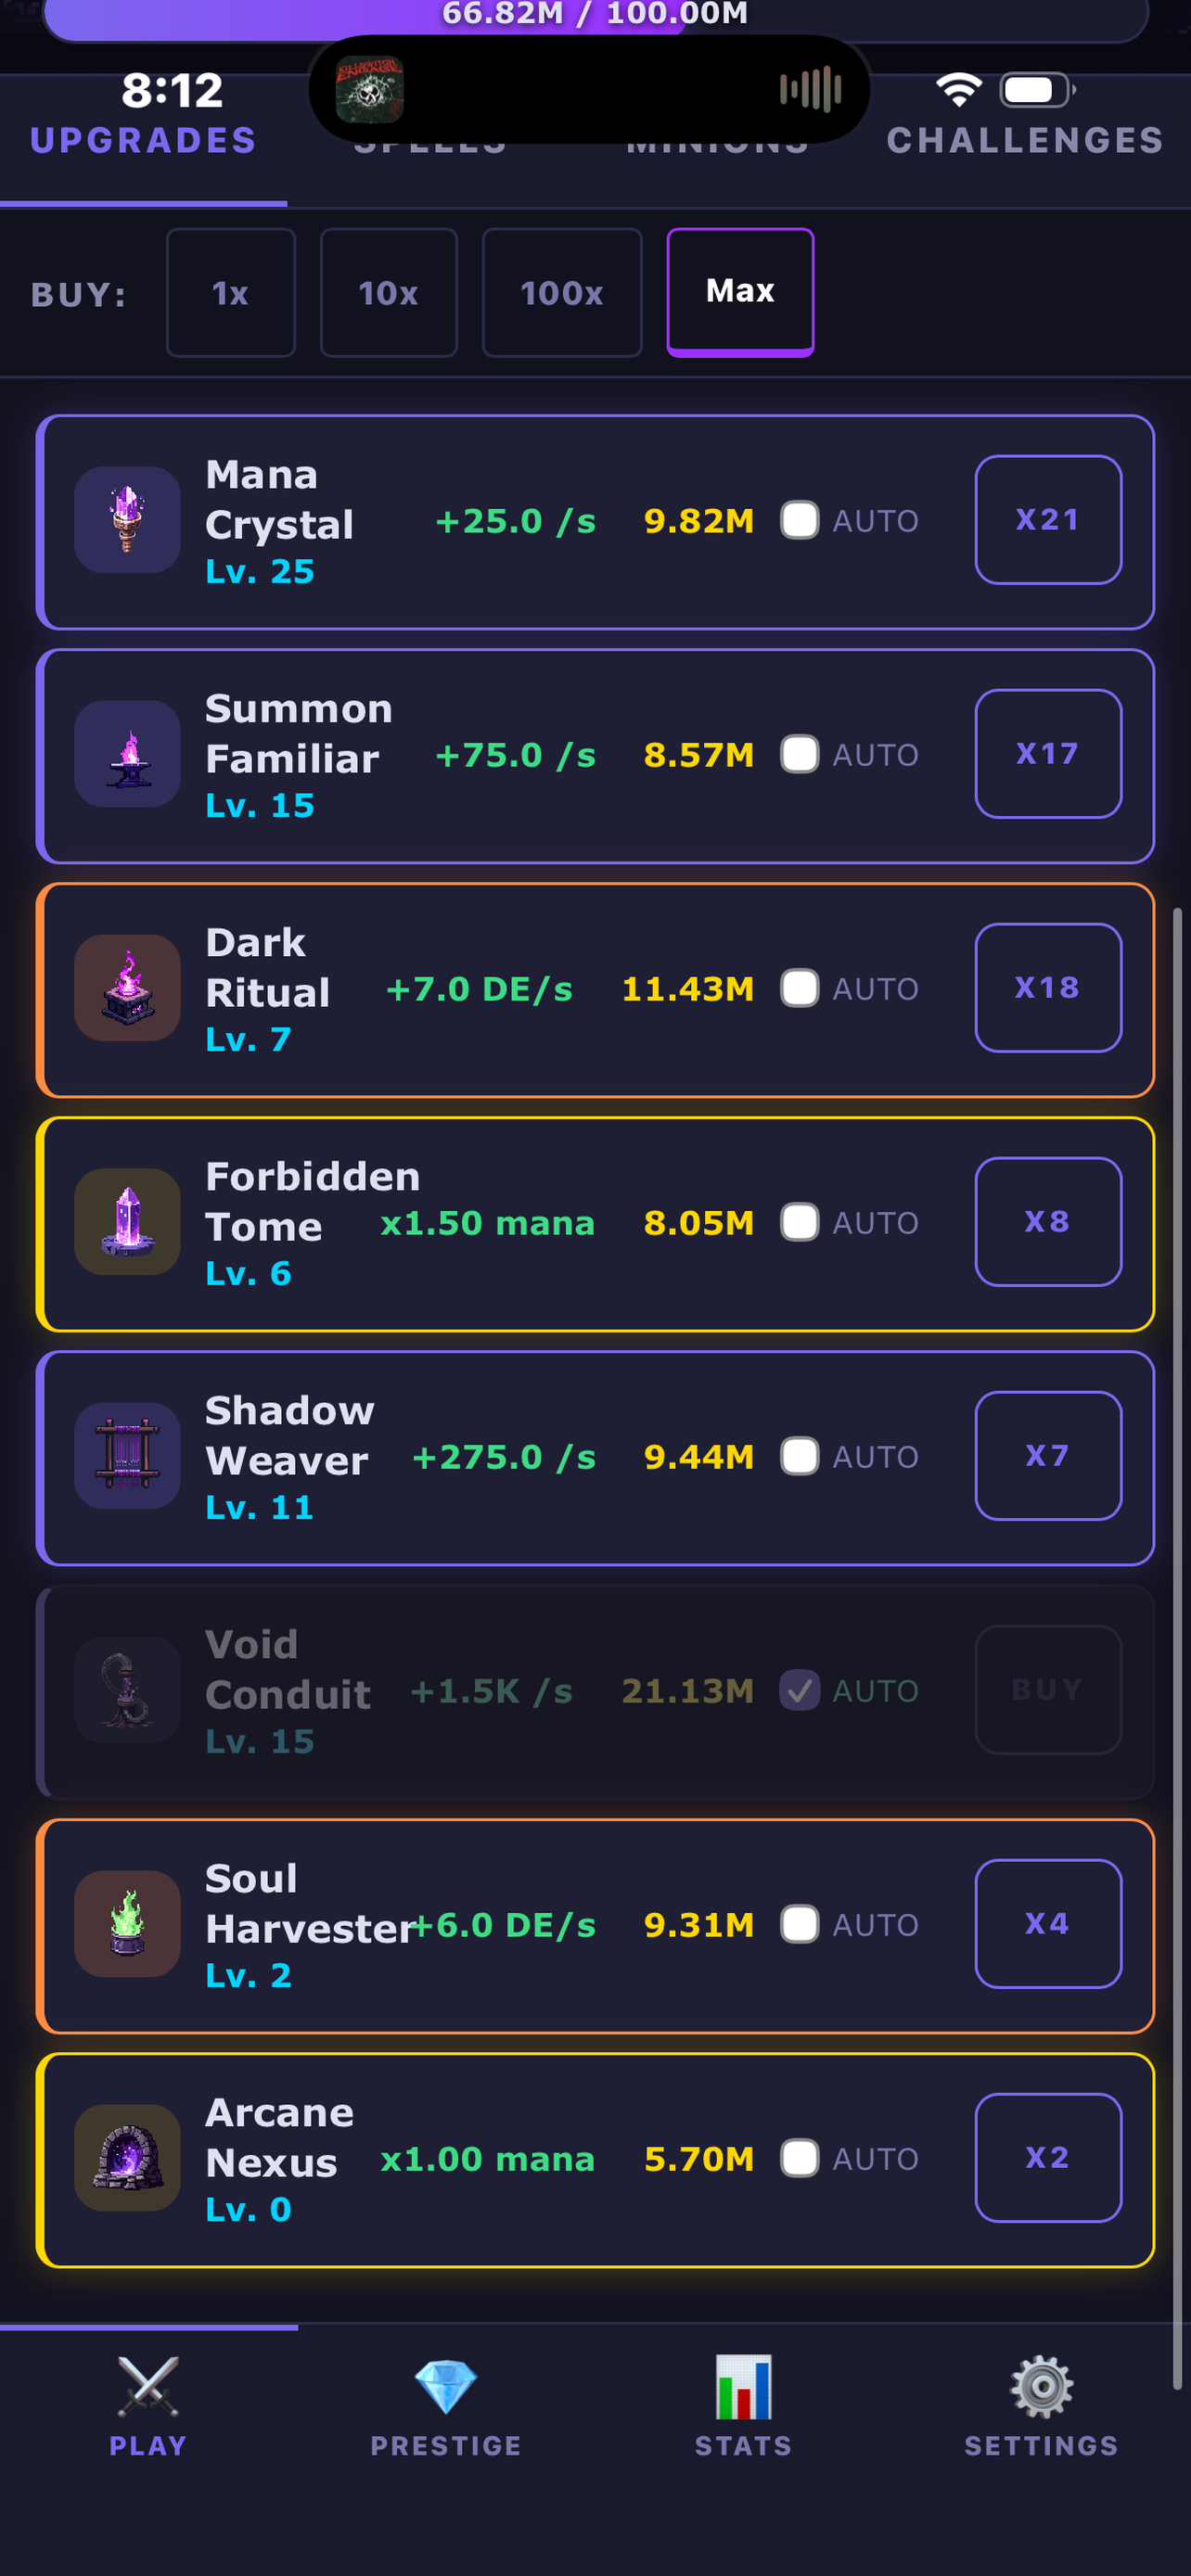
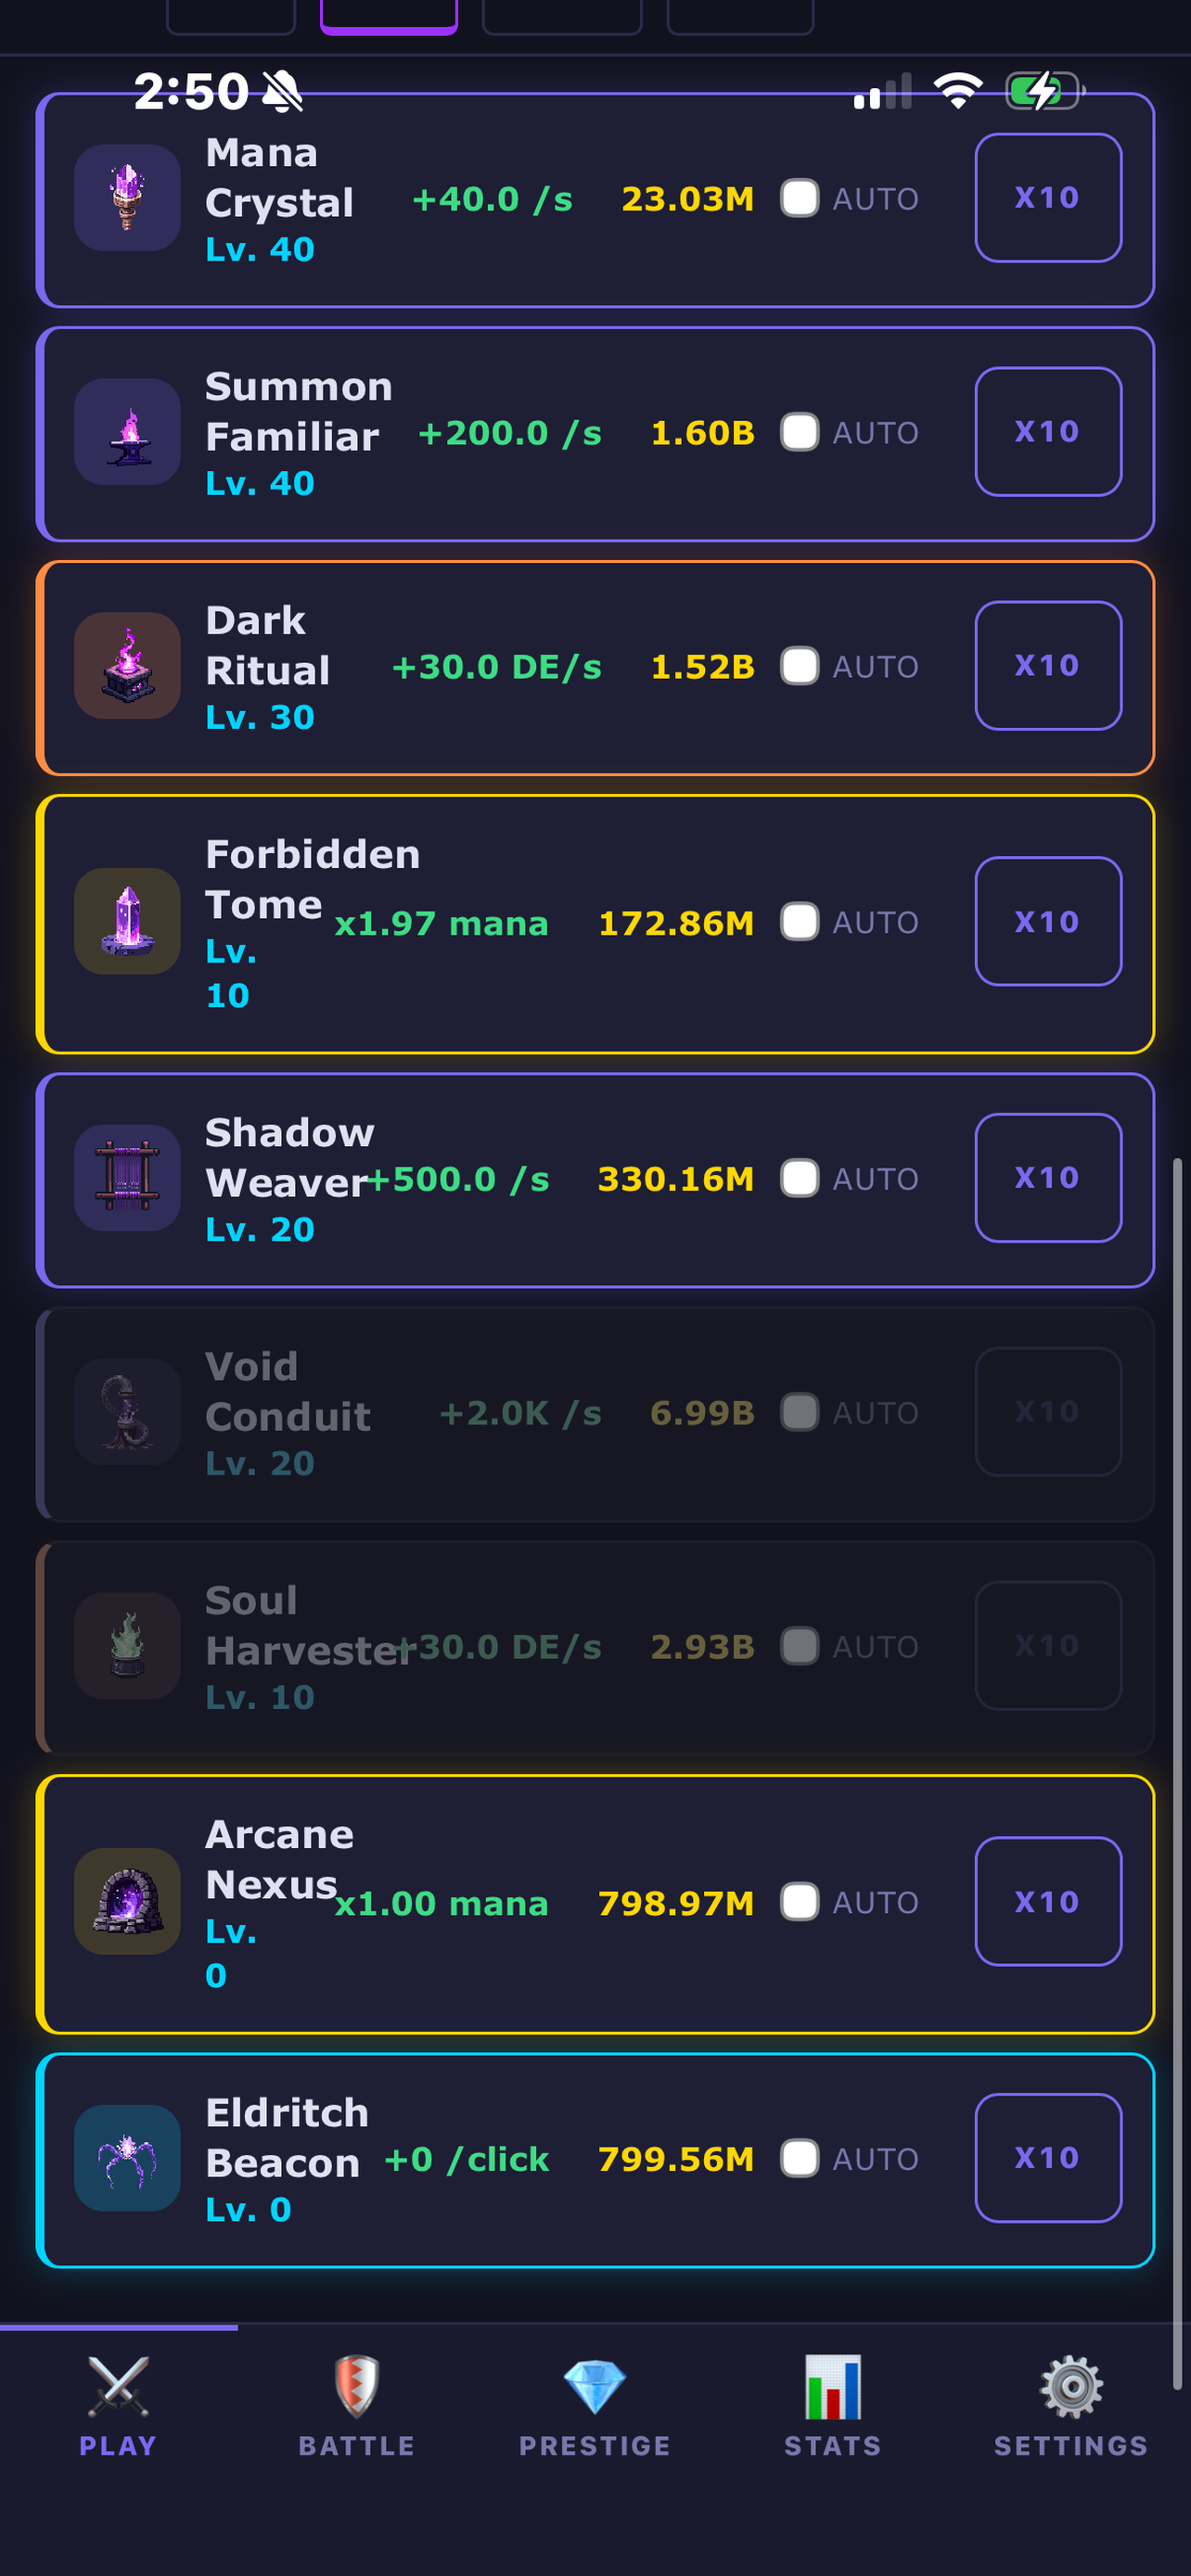
v1.9.2: Support page, updated screenshots, IAP review images
- Add support.html with bug reports, feature requests, purchase help, save data info
- Remove GitHub username links from index.html (FAQ, footer)
- Add Support link to nav and footer
- Update copyright to Dark Ascension Labs
- Replace 7 old screenshots with 11 new ones (all formats: 6.5", 6.7", iPad, itch.io)
- Add 24 IAP review screenshots for App Store Connect upload
- New screens: spells, minions, challenges, artifacts, bosses

diff --git a/support.html b/support.html
@@ -1,0 +1,199 @@
+<!DOCTYPE html>
+<html lang="en">
+<head>
+    <meta charset="UTF-8">
+    <meta name="viewport" content="width=device-width, initial-scale=1.0">
+    <title>Support — Dark Ascension</title>
+    <meta name="description" content="Get help with Dark Ascension. Report bugs, request features, or contact the developer.">
+    <meta name="theme-color" content="#0a0a12">
+    <link rel="stylesheet" href="css/style.css">
+    <style>
+        .support-hero {
+            padding: 140px 24px 60px;
+            text-align: center;
+            background: var(--bg-darkest);
+        }
+        .support-content {
+            max-width: 700px;
+            margin: 0 auto;
+            padding: 0 24px 100px;
+            background: var(--bg-darkest);
+        }
+        .support-section {
+            background: var(--bg-panel);
+            border: 1px solid var(--border-color);
+            border-radius: 14px;
+            padding: 32px 28px;
+            margin-bottom: 24px;
+        }
+        .support-section h3 {
+            font-size: 1.15rem;
+            margin-bottom: 12px;
+            color: var(--text-primary);
+        }
+        .support-section p,
+        .support-section li {
+            font-size: 0.95rem;
+            color: var(--text-secondary);
+            line-height: 1.7;
+        }
+        .support-section ul {
+            list-style: none;
+            padding: 0;
+        }
+        .support-section li {
+            padding: 6px 0;
+            padding-left: 20px;
+            position: relative;
+        }
+        .support-section li::before {
+            content: "\2022";
+            color: var(--accent-purple);
+            position: absolute;
+            left: 0;
+            font-weight: bold;
+        }
+        .support-email {
+            display: inline-flex;
+            align-items: center;
+            gap: 8px;
+            background: var(--bg-card);
+            border: 1px solid var(--accent-purple);
+            border-radius: 10px;
+            padding: 14px 24px;
+            margin-top: 12px;
+            font-size: 1rem;
+            font-weight: 600;
+            color: var(--accent-purple);
+            transition: background 0.2s, transform 0.2s;
+        }
+        .support-email:hover {
+            background: var(--bg-hover);
+            color: var(--accent-cyan);
+            transform: translateY(-2px);
+        }
+        .support-version {
+            text-align: center;
+            font-size: 0.85rem;
+            color: var(--text-dim);
+            margin-top: 40px;
+        }
+    </style>
+</head>
+<body>
+
+<!-- ===== NAV ===== -->
+<nav class="site-nav">
+    <div class="nav-inner">
+        <a href="/" class="nav-logo"><span>Dark</span> Ascension</a>
+        <ul class="nav-links" id="navLinks">
+            <li><a href="/#features">Features</a></li>
+            <li><a href="/#screenshots">Screenshots</a></li>
+            <li><a href="/#faq">FAQ</a></li>
+            <li><a href="privacy.html">Privacy</a></li>
+            <li><a href="support.html" style="color: var(--accent-purple);">Support</a></li>
+        </ul>
+        <button class="nav-toggle" id="navToggle" aria-label="Toggle navigation">&#9776;</button>
+    </div>
+</nav>
+
+<!-- ===== HERO ===== -->
+<div class="support-hero">
+    <span class="section-label">Support</span>
+    <h1 class="section-title" style="font-size: 2.5rem; margin-bottom: 16px;">How Can We Help?</h1>
+    <p class="section-desc centered">Found a bug, have a question, or want to suggest a feature? We're here to help.</p>
+</div>
+
+<!-- ===== CONTENT ===== -->
+<div class="support-content">
+
+    <div class="support-section">
+        <h3>Report a Bug</h3>
+        <p>If something isn't working right, please email us with:</p>
+        <ul>
+            <li>What happened (and what you expected to happen)</li>
+            <li>Steps to reproduce the issue</li>
+            <li>Your device and OS version (e.g., iPhone 15, iOS 18)</li>
+            <li>A screenshot if possible</li>
+        </ul>
+        <a href="mailto:[email redacted]?subject=Bug%20Report%20-%20Dark%20Ascension" class="support-email">
+            [email redacted]
+        </a>
+    </div>
+
+    <div class="support-section">
+        <h3>Feature Requests</h3>
+        <p>Have an idea for the game? We love hearing from players. Tell us what you'd like to see — new systems, quality-of-life improvements, balance changes, or anything else. Email us with "Feature Request" in the subject line.</p>
+        <a href="mailto:[email redacted]?subject=Feature%20Request%20-%20Dark%20Ascension" class="support-email">
+            [email redacted]
+        </a>
+    </div>
+
+    <div class="support-section">
+        <h3>Purchases &amp; Restore</h3>
+        <p>If an in-app purchase didn't apply correctly:</p>
+        <ul>
+            <li>Go to <strong>Settings</strong> in the game and tap <strong>Restore Purchases</strong></li>
+            <li>Make sure you're signed in with the same Apple ID used for the purchase</li>
+            <li>Restart the app and try again</li>
+        </ul>
+        <p style="margin-top: 12px;">If the issue persists, email us with your Apple ID (the email, not the password) and which item you purchased. We'll help sort it out.</p>
+    </div>
+
+    <div class="support-section">
+        <h3>Save Data</h3>
+        <p>All save data is stored locally on your device. To back up or transfer your save:</p>
+        <ul>
+            <li>Go to <strong>Settings</strong> in the game</li>
+            <li>Tap <strong>Copy Save to Clipboard</strong></li>
+            <li>Paste it somewhere safe (Notes, email, etc.)</li>
+            <li>On a new device, use <strong>Import Save from Clipboard</strong></li>
+        </ul>
+    </div>
+
+    <div class="support-section">
+        <h3>General Questions</h3>
+        <p>For anything else — general questions, feedback, press inquiries, or just to say hi — reach out anytime.</p>
+        <a href="mailto:[email redacted]?subject=Dark%20Ascension%20-%20General" class="support-email">
+            [email redacted]
+        </a>
+    </div>
+
+    <div class="support-version">
+        Dark Ascension is made by Dark Ascension Labs.<br>
+        Current version: v1.9.2
+    </div>
+
+</div>
+
+<!-- ===== FOOTER ===== -->
+<footer class="site-footer">
+    <div class="footer-inner">
+        <div class="footer-copy">&copy; 2026 Dark Ascension Labs. All rights reserved.</div>
+        <ul class="footer-links">
+            <li><a href="privacy.html">Privacy Policy</a></li>
+            <li><a href="support.html">Support</a></li>
+            <li><a href="/">Home</a></li>
+        </ul>
+    </div>
+</footer>
+
+<!-- ===== JS ===== -->
+<script>
+(function() {
+    var toggle = document.getElementById("navToggle");
+    var links = document.getElementById("navLinks");
+    toggle.addEventListener("click", function() {
+        links.classList.toggle("open");
+    });
+    var navAnchors = links.querySelectorAll("a");
+    for (var i = 0; i < navAnchors.length; i++) {
+        navAnchors[i].addEventListener("click", function() {
+            links.classList.remove("open");
+        });
+    }
+})();
+</script>
+
+</body>
+</html>

diff --git a/index.html b/index.html
@@ -31,6 +31,7 @@
             <li><a href="#journey">The Journey</a></li>
             <li><a href="#faq">FAQ</a></li>
             <li><a href="privacy.html">Privacy</a></li>
+            <li><a href="support.html">Support</a></li>
         </ul>
         <button class="nav-toggle" id="navToggle" aria-label="Toggle navigation">&#9776;</button>
     </div>
@@ -263,7 +264,7 @@
             </div>
             <div class="faq-item">
                 <button class="faq-question">How do I report a bug or request a feature? <span class="arrow">&#9660;</span></button>
-                <div class="faq-answer"><div class="faq-answer-inner">Open an issue on our <a href="https://github.com/mikejamescalvert/Dark-Ascension-Support/issues" target="_blank" rel="noopener">GitHub support page</a>. We read every report and use them to prioritize updates.</div></div>
+                <div class="faq-answer"><div class="faq-answer-inner">Visit our <a href="support.html">support page</a> or email us at <a href="mailto:[email redacted]">[email redacted]</a>. We read every report and use them to prioritize updates.</div></div>
             </div>
         </div>
     </div>
@@ -286,11 +287,10 @@
 <!-- ===== FOOTER ===== -->
 <footer class="site-footer">
     <div class="footer-inner">
-        <div class="footer-copy">&copy; 2026 Dark Ascension. All rights reserved.</div>
+        <div class="footer-copy">&copy; 2026 Dark Ascension Labs. All rights reserved.</div>
         <ul class="footer-links">
             <li><a href="privacy.html">Privacy Policy</a></li>
-            <li><a href="https://github.com/mikejamescalvert/Dark-Ascension-Support/issues" target="_blank" rel="noopener">Support</a></li>
-            <li><a href="https://github.com/mikejamescalvert/Dark-Ascension-Support" target="_blank" rel="noopener">GitHub</a></li>
+            <li><a href="support.html">Support</a></li>
         </ul>
     </div>
 </footer>